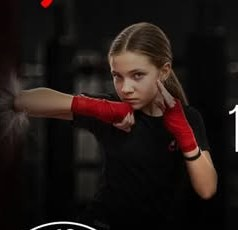
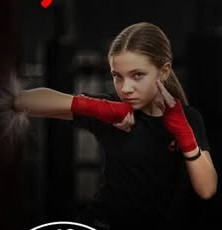
Add real contacts, head coach, Calgary photos and women's fitness group
- Phone, address, Google Maps, Instagram and Facebook links
- Head coach Andrii Karpuk with photo
- Calgary team, kids MMA and women's fitness photos
- Women & girls 15+ fitness kickboxing group and schedule
- "Developed by softmarmot" credit in the footer

Claude-Session: https://claude.ai/code/session_013uQAZPCUHHht6Z71AKmYwB

diff --git a/src/lib/content.js b/src/lib/content.js
@@ -7,12 +7,18 @@ export const club = {
 	city: 'Calgary',
 	founded: 2008,
 	tagline: 'Train. Grow. Win.',
-	phone: '+1 (403) 555-0148',
-	email: 'hello@cfccalgary.ca',
-	address: '1234 Example Ave SE, Calgary, AB T2G 0A0',
-	mapUrl: 'https://maps.google.com/?q=Calgary,AB',
-	instagram: 'https://instagram.com/',
-	facebook: 'https://facebook.com/'
+	phone: '+1 (587) 227-8487',
+	phoneHref: 'tel:+15872278487',
+	address: '6434 1a St SW, Calgary, AB T2H 0G6, Canada',
+	mapUrl: 'https://maps.app.goo.gl/MpqjDHPX1Yh6dvy37',
+	instagram: 'https://www.instagram.com/champion_cfc/',
+	instagramHandle: '@champion_cfc',
+	facebook: 'https://www.facebook.com/ChampionFightClub'
+};
+
+export const developer = {
+	name: 'softmarmot',
+	url: 'https://github.com/softmarmot'
 };
 
 export const nav = [
@@ -25,7 +31,7 @@ export const nav = [
 	{ href: '#contact', label: 'Contact' }
 ];
 
-export const disciplines = ['Kickboxing', 'Muay Thai', 'MMA', 'Kids 5–13', 'Girls only', 'Adults 14+'];
+export const disciplines = ['Kickboxing', 'Muay Thai', 'MMA', 'Kids 5–13', 'Girls only', 'Women’s fitness', 'Adults 14+'];
 
 export const stats = [
 	{ value: '18', label: 'Years of fighting spirit' },
@@ -70,9 +76,9 @@ export const programs = [
 	},
 	{
 		title: 'MMA',
-		tag: 'Teens & adults',
-		text: 'Striking, takedowns and ground control combined. Well-rounded skills for fitness, self-defence and competition.',
-		image: 'team'
+		tag: 'Kids 5–12 & adults',
+		text: 'Striking, takedowns and ground control combined. Includes our original kids MMA program for ages 5 to 12.',
+		image: 'mma'
 	}
 ];
 
@@ -80,7 +86,8 @@ export const groups = [
 	{ title: 'Little Champions', ages: '5–7 years', text: 'Coordination, balance and discipline through play. The first step into martial arts.' },
 	{ title: 'Kids', ages: '7–13 years', text: 'Technique, fitness and confidence. Optional path to tournaments for those who want to compete.' },
 	{ title: 'Girls only', ages: '8–13 years', text: 'A dedicated kickboxing & Muay Thai group where girls train together with confidence.' },
-	{ title: 'Teens & Adults', ages: '14+', text: 'Get fit, learn real skills and blow off steam. Beginners welcome, no experience needed.' }
+	{ title: 'Teens & Adults', ages: '14+', text: 'Get fit, learn real skills and blow off steam. Beginners welcome, no experience needed.' },
+	{ title: 'Women’s fitness kickboxing', ages: '15+ / 18+', text: 'Morning classes for girls 15+ and women 18+. Burn calories, build strength, learn to hit.' }
 ];
 
 export const schedule = [
@@ -95,6 +102,7 @@ export const schedule = [
 	{
 		days: 'Tue • Thu',
 		classes: [
+			{ time: '10:00 – 11:30 AM', group: 'Women & girls 15+' },
 			{ time: '4:00 – 5:30 PM', group: 'Girls 8–13' },
 			{ time: '5:30 – 7:00 PM', group: 'Kids 7–9' },
 			{ time: '7:00 – 8:30 PM', group: 'Adults' }
@@ -103,19 +111,25 @@ export const schedule = [
 	{
 		days: 'Saturday',
 		classes: [
-			{ time: '10:00 – 11:30 AM', group: 'Girls 8–13' },
-			{ time: '11:30 AM – 1:00 PM', group: 'Kids 7–9' },
-			{ time: '1:00 – 2:30 PM', group: 'Adults' }
+			{ time: '10:00 – 11:30 AM', group: 'Women & girls 15+' },
+			{ time: '11:30 AM – 1:00 PM', group: 'Girls 8–13' },
+			{ time: '1:00 – 2:30 PM', group: 'Kids 7–9' },
+			{ time: '2:30 – 4:00 PM', group: 'Adults' }
 		]
+	},
+	{
+		days: 'Sunday',
+		classes: [{ time: '10:00 – 11:30 AM', group: 'Women & girls 15+' }]
 	}
 ];
 
 export const coaches = [
 	{
-		name: 'Coach Name',
-		role: 'Founder & Head Coach',
-		bio: 'Founded CFC in 2008. Master of Sport in kickboxing, 20+ years of coaching, has raised national and European champions.',
-		tags: ['Kickboxing', 'Muay Thai']
+		name: 'Andrii Karpuk',
+		role: 'Head Coach',
+		bio: 'Leads the CFC coaching system that took the club from Bakhmut to Kyiv to Calgary, coaching everyone from first-day beginners to competition fighters.',
+		tags: ['Kickboxing', 'Muay Thai', 'MMA'],
+		photo: 'andrii'
 	},
 	{
 		name: 'Coach Name',

diff --git a/src/lib/components/Footer.svelte b/src/lib/components/Footer.svelte
@@ -1,11 +1,11 @@
 <script>
-	import { club, nav } from '$lib/content.js';
+	import { club, developer, nav } from '$lib/content.js';
 	import Logo from './Logo.svelte';
 	import roundel from '$lib/assets/logo-roundel.jpg';
 </script>
 
 <footer class="border-t-4 border-blood bg-black">
-	<div class="mx-auto grid max-w-7xl gap-10 px-4 py-16 sm:px-6 md:grid-cols-[1.5fr_1fr_1fr]">
+	<div class="mx-auto grid max-w-7xl gap-10 px-4 py-16 sm:px-6 sm:grid-cols-2 lg:grid-cols-[1.4fr_1fr_1fr_1fr]">
 		<div class="flex items-start gap-5">
 			<img src={roundel} alt="" class="size-20 shrink-0 rounded-full" />
 			<div>
@@ -16,24 +16,37 @@
 		</div>
 		<nav aria-label="Footer">
 			<p class="eyebrow">Explore</p>
-			<ul class="mt-4 grid grid-cols-2 gap-2 text-white/70">
+			<ul class="mt-4 grid grid-cols-2 gap-2 text-white/80">
 				{#each nav as item}<li><a class="hover:text-flame" href={item.href}>{item.label}</a></li>{/each}
 			</ul>
 		</nav>
 		<div>
+			<p class="eyebrow">Visit</p>
+			<address class="mt-4 space-y-2 text-white/80 not-italic">
+				<a class="block hover:text-flame" href={club.mapUrl} target="_blank" rel="noopener">{club.address}</a>
+				<a class="block hover:text-flame" href={club.phoneHref}>{club.phone}</a>
+			</address>
+		</div>
+		<div>
 			<p class="eyebrow">Follow</p>
 			<div class="mt-4 flex gap-3">
 				<a href={club.instagram} target="_blank" rel="noopener" aria-label="Instagram" class="grid size-11 place-items-center bg-white/10 hover:bg-blood">
-					<svg viewBox="0 0 24 24" class="size-5" fill="none" stroke="currentColor" stroke-width="2"><rect x="3" y="3" width="18" height="18" rx="5" /><circle cx="12" cy="12" r="4" /><circle cx="17.5" cy="6.5" r="1" fill="currentColor" /></svg>
+					<svg viewBox="0 0 24 24" class="size-5" fill="none" stroke="currentColor" stroke-width="2" aria-hidden="true"><rect x="3" y="3" width="18" height="18" rx="5" /><circle cx="12" cy="12" r="4" /><circle cx="17.5" cy="6.5" r="1" fill="currentColor" /></svg>
 				</a>
 				<a href={club.facebook} target="_blank" rel="noopener" aria-label="Facebook" class="grid size-11 place-items-center bg-white/10 hover:bg-blood">
-					<svg viewBox="0 0 24 24" class="size-5" fill="currentColor"><path d="M14 8h3V4h-3c-2.8 0-4 1.8-4 4.5V11H7v4h3v9h4v-9h3l1-4h-4V8.8c0-.5.3-.8 1-.8Z" /></svg>
+					<svg viewBox="0 0 24 24" class="size-5" fill="currentColor" aria-hidden="true"><path d="M14 8h3V4h-3c-2.8 0-4 1.8-4 4.5V11H7v4h3v9h4v-9h3l1-4h-4V8.8c0-.5.3-.8 1-.8Z" /></svg>
 				</a>
 			</div>
 			<p class="font-head mt-6 text-lg font-bold tracking-[0.3em] uppercase">Train <span class="text-flame">•</span> Grow <span class="text-flame">•</span> Win</p>
 		</div>
 	</div>
-	<div class="border-t border-white/10 py-6 text-center text-xs text-white/60">
-		© {new Date().getFullYear()} {club.name} {club.city}. All rights reserved.
+	<div class="border-t border-white/10">
+		<div class="mx-auto flex max-w-7xl flex-col gap-2 px-4 py-6 text-sm text-white/70 sm:flex-row sm:justify-between sm:px-6">
+			<p>© {new Date().getFullYear()} {club.name} {club.city}. All rights reserved.</p>
+			<p>
+				Developed by
+				<a class="font-semibold text-white underline decoration-blood decoration-2 underline-offset-4 hover:text-flame" href={developer.url} target="_blank" rel="noopener">{developer.name}</a>
+			</p>
+		</div>
 	</div>
 </footer>

diff --git a/src/lib/components/Gallery.svelte b/src/lib/components/Gallery.svelte
@@ -1,14 +1,20 @@
 <script>
 	import { club } from '$lib/content.js';
 	import SectionTitle from './SectionTitle.svelte';
-	import team from '$lib/assets/team-kyiv.jpg';
+	import kyiv from '$lib/assets/team-kyiv.jpg';
+	import calgary from '$lib/assets/team-calgary.jpg';
+	import women from '$lib/assets/women-fitness.jpg';
+	import mma from '$lib/assets/kids-mma.jpg';
 	import jerseys from '$lib/assets/kids-jerseys.jpg';
 	import girl from '$lib/assets/girl-jab.jpg';
 
 	const items = [
-		{ src: team, alt: 'CFC youth team after training', cls: 'col-span-2 row-span-2' },
-		{ src: girl, alt: 'Girls group athlete throwing a jab', cls: 'md:row-span-2' },
-		{ src: jerseys, alt: 'CFC kids in club rash guards', cls: '' }
+		{ src: kyiv, alt: 'CFC youth team in the Kyiv gym', cls: 'col-span-2 row-span-2' },
+		{ src: calgary, alt: 'Adult team in the CFC Calgary gym', cls: 'md:row-span-2', pos: 'object-[50%_60%]' },
+		{ src: women, alt: 'Women’s fitness kickboxing athlete in guard', cls: '', pos: 'object-top' },
+		{ src: mma, alt: 'Young athlete from the kids MMA program', cls: '', pos: 'object-[50%_25%]' },
+		{ src: girl, alt: 'Girls group athlete throwing a jab', cls: '', pos: 'object-top' },
+		{ src: jerseys, alt: 'CFC kids in club rash guards', cls: '', pos: 'object-top' }
 	];
 
 	let active = $state(-1);
@@ -20,7 +26,7 @@
 	<div class="mx-auto max-w-7xl px-4 sm:px-6">
 		<SectionTitle eyebrow="Gallery" title="Life at" accent="CFC." />
 
-		<div class="mt-14 grid auto-rows-[10rem] grid-cols-2 gap-3 sm:auto-rows-[14rem] md:grid-cols-4">
+		<div class="mt-14 grid grid-flow-dense auto-rows-[11rem] grid-cols-2 gap-3 sm:auto-rows-[14rem] md:grid-cols-4">
 			{#each items as item, i}
 				<button
 					class="group relative overflow-hidden bg-ink {item.cls}"
@@ -30,7 +36,7 @@
 					<img
 						src={item.src}
 						alt={item.alt}
-						class="photo size-full object-cover transition duration-500 group-hover:scale-105"
+						class="photo size-full object-cover transition duration-500 group-hover:scale-105 {item.pos ?? ''}"
 					/>
 				</button>
 			{/each}
@@ -38,11 +44,11 @@
 				href={club.instagram}
 				target="_blank"
 				rel="noopener"
-				class="group col-span-2 flex flex-col md:col-span-1 justify-end bg-blood p-6 transition-colors hover:bg-white"
+				class="group flex flex-col justify-end bg-blood p-5 transition-colors hover:bg-white sm:p-6 md:col-span-2"
 			>
 				<span class="headline text-3xl text-white group-hover:text-ink sm:text-4xl">More on Instagram</span>
-				<span class="font-head mt-2 text-sm font-semibold tracking-widest text-white uppercase group-hover:text-ink">
-					Follow us →
+				<span class="font-head mt-2 text-sm font-semibold tracking-widest text-white group-hover:text-ink">
+					{club.instagramHandle} →
 				</span>
 			</a>
 		</div>

diff --git a/src/lib/components/Coaches.svelte b/src/lib/components/Coaches.svelte
@@ -1,6 +1,9 @@
 <script>
 	import { coaches } from '$lib/content.js';
 	import SectionTitle from './SectionTitle.svelte';
+	import andrii from '$lib/assets/coach-andrii.jpg';
+
+	const photos = { andrii };
 </script>
 
 <section id="coaches" class="bg-coal py-24 sm:py-32">
@@ -13,12 +16,20 @@
 			{#each coaches as c}
 				<article class="group grid grid-cols-[7rem_1fr] gap-x-5 md:block">
 					<div class="grain relative isolate row-span-4 aspect-[4/5] self-start overflow-hidden bg-steel">
-						<!-- photo placeholder -->
-						<svg viewBox="0 0 200 250" class="absolute inset-x-0 bottom-0 -z-10 w-full text-white/10" fill="currentColor" aria-hidden="true">
-							<circle cx="100" cy="85" r="42" />
-							<path d="M20 250c0-60 36-100 80-100s80 40 80 100Z" />
-						</svg>
-						<p class="absolute right-4 bottom-4 hidden text-xs tracking-widest text-white/60 uppercase md:block">Photo coming soon</p>
+						{#if c.photo}
+							<img
+								src={photos[c.photo]}
+								alt="{c.name}, {c.role}"
+								class="photo absolute inset-0 -z-10 size-full object-cover object-top transition duration-500 group-hover:grayscale-0"
+							/>
+						{:else}
+							<!-- photo placeholder -->
+							<svg viewBox="0 0 200 250" class="absolute inset-x-0 bottom-0 -z-10 w-full text-white/10" fill="currentColor" aria-hidden="true">
+								<circle cx="100" cy="85" r="42" />
+								<path d="M20 250c0-60 36-100 80-100s80 40 80 100Z" />
+							</svg>
+							<p class="absolute right-4 bottom-4 hidden text-xs tracking-widest text-white/60 uppercase md:block">Photo coming soon</p>
+						{/if}
 						<div class="absolute inset-x-0 bottom-0 h-1.5 origin-left scale-x-0 bg-blood transition duration-500 group-hover:scale-x-100"></div>
 					</div>
 					<p class="eyebrow text-xs md:mt-6 md:text-sm">{c.role}</p>

diff --git a/src/lib/components/Programs.svelte b/src/lib/components/Programs.svelte
@@ -3,9 +3,9 @@
 	import SectionTitle from './SectionTitle.svelte';
 	import girl from '$lib/assets/girl-jab.jpg';
 	import sparring from '$lib/assets/sparring.jpg';
-	import team from '$lib/assets/team-kyiv.jpg';
+	import mma from '$lib/assets/kids-mma.jpg';
 
-	const images = { girl, sparring, team };
+	const images = { girl, sparring, mma };
 </script>
 
 <section id="programs" class="relative bg-coal py-24 sm:py-32">
@@ -32,7 +32,7 @@
 		</div>
 
 		<h3 class="font-head mt-24 text-3xl font-bold uppercase">Groups for <span class="text-flame">every age</span></h3>
-		<div class="mt-8 grid gap-px bg-white/10 sm:grid-cols-2 lg:grid-cols-4">
+		<div class="mt-8 grid gap-px bg-white/10 sm:grid-cols-2 lg:grid-cols-5 [&>*:last-child]:sm:col-span-2 [&>*:last-child]:lg:col-span-1">
 			{#each groups as g}
 				<div class="bg-coal p-7 transition hover:bg-steel">
 					<p class="headline text-4xl text-flame">{g.ages}</p>

diff --git a/src/lib/components/Hero.svelte b/src/lib/components/Hero.svelte
@@ -1,11 +1,11 @@
 <script>
 	import { club, disciplines } from '$lib/content.js';
-	import team from '$lib/assets/team-kyiv.jpg';
+	import team from '$lib/assets/team-calgary.jpg';
 	import roundel from '$lib/assets/logo-roundel.jpg';
 </script>
 
 <section id="top" class="grain relative isolate flex min-h-svh flex-col overflow-hidden">
-	<img src={team} alt="" class="photo absolute inset-0 -z-20 size-full object-cover object-center opacity-40" />
+	<img src={team} alt="" class="photo absolute inset-0 -z-20 size-full object-cover object-[50%_40%] opacity-40" />
 	<!-- dark scrims keep the headline and copy readable over the photo -->
 	<div class="absolute inset-0 -z-10 bg-gradient-to-r from-ink via-ink/90 to-ink/40"></div>
 	<div class="absolute inset-0 -z-10 bg-gradient-to-t from-ink via-transparent to-ink/70"></div>

diff --git a/src/lib/components/Contact.svelte b/src/lib/components/Contact.svelte
@@ -33,11 +33,11 @@
 				</div>
 				<div>
 					<dt class="eyebrow">Phone</dt>
-					<dd class="font-head mt-1 text-xl"><a class="hover:text-flame" href="tel:{club.phone.replace(/[^+\d]/g, '')}">{club.phone}</a></dd>
+					<dd class="font-head mt-1 text-xl"><a class="hover:text-flame" href={club.phoneHref}>{club.phone}</a></dd>
 				</div>
 				<div>
-					<dt class="eyebrow">Email</dt>
-					<dd class="font-head mt-1 text-xl"><a class="hover:text-flame" href="mailto:{club.email}">{club.email}</a></dd>
+					<dt class="eyebrow">Instagram</dt>
+					<dd class="font-head mt-1 text-xl"><a class="hover:text-flame" href={club.instagram} target="_blank" rel="noopener">{club.instagramHandle}</a></dd>
 				</div>
 			</dl>
 

diff --git a/src/lib/components/Schedule.svelte b/src/lib/components/Schedule.svelte
@@ -10,7 +10,7 @@
 			<a href="#contact" class="btn-red">Reserve your spot</a>
 		</div>
 
-		<div class="mt-14 grid gap-8 lg:grid-cols-3">
+		<div class="mt-14 grid items-start gap-6 md:grid-cols-2">
 			{#each schedule as day}
 				<div class="border border-white/10 bg-coal/70 p-6 sm:p-8">
 					<div class="flex items-center gap-3">
